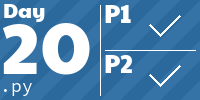
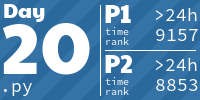
Löse AoC 2016 Day 21
- Implementiere Scrambler und Entschlüsselung

- Reiche beide Antworten ein

diff --git a/2016-py/day21/2016_day21.py b/2016-py/day21/2016_day21.py
@@ -1,0 +1,122 @@
+import time
+
+from aocfw import AdventOfCodeClient
+
+YEAR = 2016
+DAY = 21
+START_TEXT = "abcdefgh"
+SCRAMBLED_TEXT = "fbgdceah"
+
+
+def rotate(text, steps):
+    steps %= len(text)
+    return text[-steps:] + text[:-steps] if steps else text
+
+
+def move(text, source, target):
+    letters = list(text)
+    letter = letters.pop(source)
+    letters.insert(target, letter)
+    return "".join(letters)
+
+
+def apply_instruction(text, instruction):
+    parts = instruction.split()
+
+    if parts[0] == "swap" and parts[1] == "position":
+        first = int(parts[2])
+        second = int(parts[5])
+        letters = list(text)
+        letters[first], letters[second] = letters[second], letters[first]
+        return "".join(letters)
+
+    if parts[0] == "swap" and parts[1] == "letter":
+        first = parts[2]
+        second = parts[5]
+        return text.translate(str.maketrans({first: second, second: first}))
+
+    if parts[0] == "rotate" and parts[1] in {"left", "right"}:
+        steps = int(parts[2])
+        return rotate(text, steps if parts[1] == "right" else -steps)
+
+    if parts[0] == "rotate" and parts[1] == "based":
+        index = text.index(parts[-1])
+        steps = 1 + index + (1 if index >= 4 else 0)
+        return rotate(text, steps)
+
+    if parts[0] == "reverse":
+        start = int(parts[2])
+        end = int(parts[4])
+        return text[:start] + text[start:end + 1][::-1] + text[end + 1:]
+
+    if parts[0] == "move":
+        return move(text, int(parts[2]), int(parts[5]))
+
+    raise ValueError(f"Unknown instruction: {instruction}")
+
+
+def reverse_instruction(text, instruction):
+    parts = instruction.split()
+
+    if parts[0] in {"swap", "reverse"}:
+        return apply_instruction(text, instruction)
+
+    if parts[0] == "rotate" and parts[1] in {"left", "right"}:
+        direction = "left" if parts[1] == "right" else "right"
+        return apply_instruction(text, f"rotate {direction} {parts[2]} steps")
+
+    if parts[0] == "rotate" and parts[1] == "based":
+        for steps in range(len(text)):
+            candidate = rotate(text, -steps)
+            if apply_instruction(candidate, instruction) == text:
+                return candidate
+
+        raise ValueError(f"Cannot reverse instruction: {instruction}")
+
+    if parts[0] == "move":
+        return move(text, int(parts[5]), int(parts[2]))
+
+    raise ValueError(f"Unknown instruction: {instruction}")
+
+
+def scramble(part_data, text):
+    result = text
+    for instruction in part_data.splitlines():
+        if instruction.strip():
+            result = apply_instruction(result, instruction)
+
+    return result
+
+
+def unscramble(part_data, text):
+    result = text
+    instructions = [line for line in part_data.splitlines() if line.strip()]
+    for instruction in reversed(instructions):
+        result = reverse_instruction(result, instruction)
+
+    return result
+
+
+def part1(part_data):
+    return scramble(part_data, START_TEXT)
+
+
+def part2(part_data):
+    return unscramble(part_data, SCRAMBLED_TEXT)
+
+
+if __name__ == "__main__":
+    client = AdventOfCodeClient()
+
+    data = client.get_input(YEAR, DAY)
+    answer = part1(data)
+    print("Part 1:", answer)
+    res = client.submit_answer(YEAR, DAY, 1, answer)
+    print(res.message)
+
+    time.sleep(10)
+
+    answer = part2(data)
+    print("Part 2:", answer)
+    res = client.submit_answer(YEAR, DAY, 2, answer)
+    print(res.message)

diff --git a/README.md b/README.md
@@ -2,7 +2,7 @@
 
 <!-- AOC TILES BEGIN -->
 <h1 align="center">
-  Advent of Code - 168/550 ⭐
+  Advent of Code - 170/550 ⭐
 </h1>
 <h1 align="center">
   2024 - 50 ⭐ - 
@@ -128,7 +128,7 @@
   <img src=".aoc_tiles/tiles/2019/14.png" width="161px">
 </a>
 <h1 align="center">
-  2016 - 40 ⭐ - Python
+  2016 - 42 ⭐ - Python
 </h1>
 <a href="2016-py/day01/2016_day01.py">
   <img src=".aoc_tiles/tiles/2016/01.png" width="161px">
@@ -189,6 +189,9 @@
 </a>
 <a href="2016-py/day20/2016_day20.py">
   <img src=".aoc_tiles/tiles/2016/20.png" width="161px">
+</a>
+<a href="2016-py/day21/2016_day21.py">
+  <img src=".aoc_tiles/tiles/2016/21.png" width="161px">
 </a>
 <h1 align="center">
   2015 - 50 ⭐ - Python